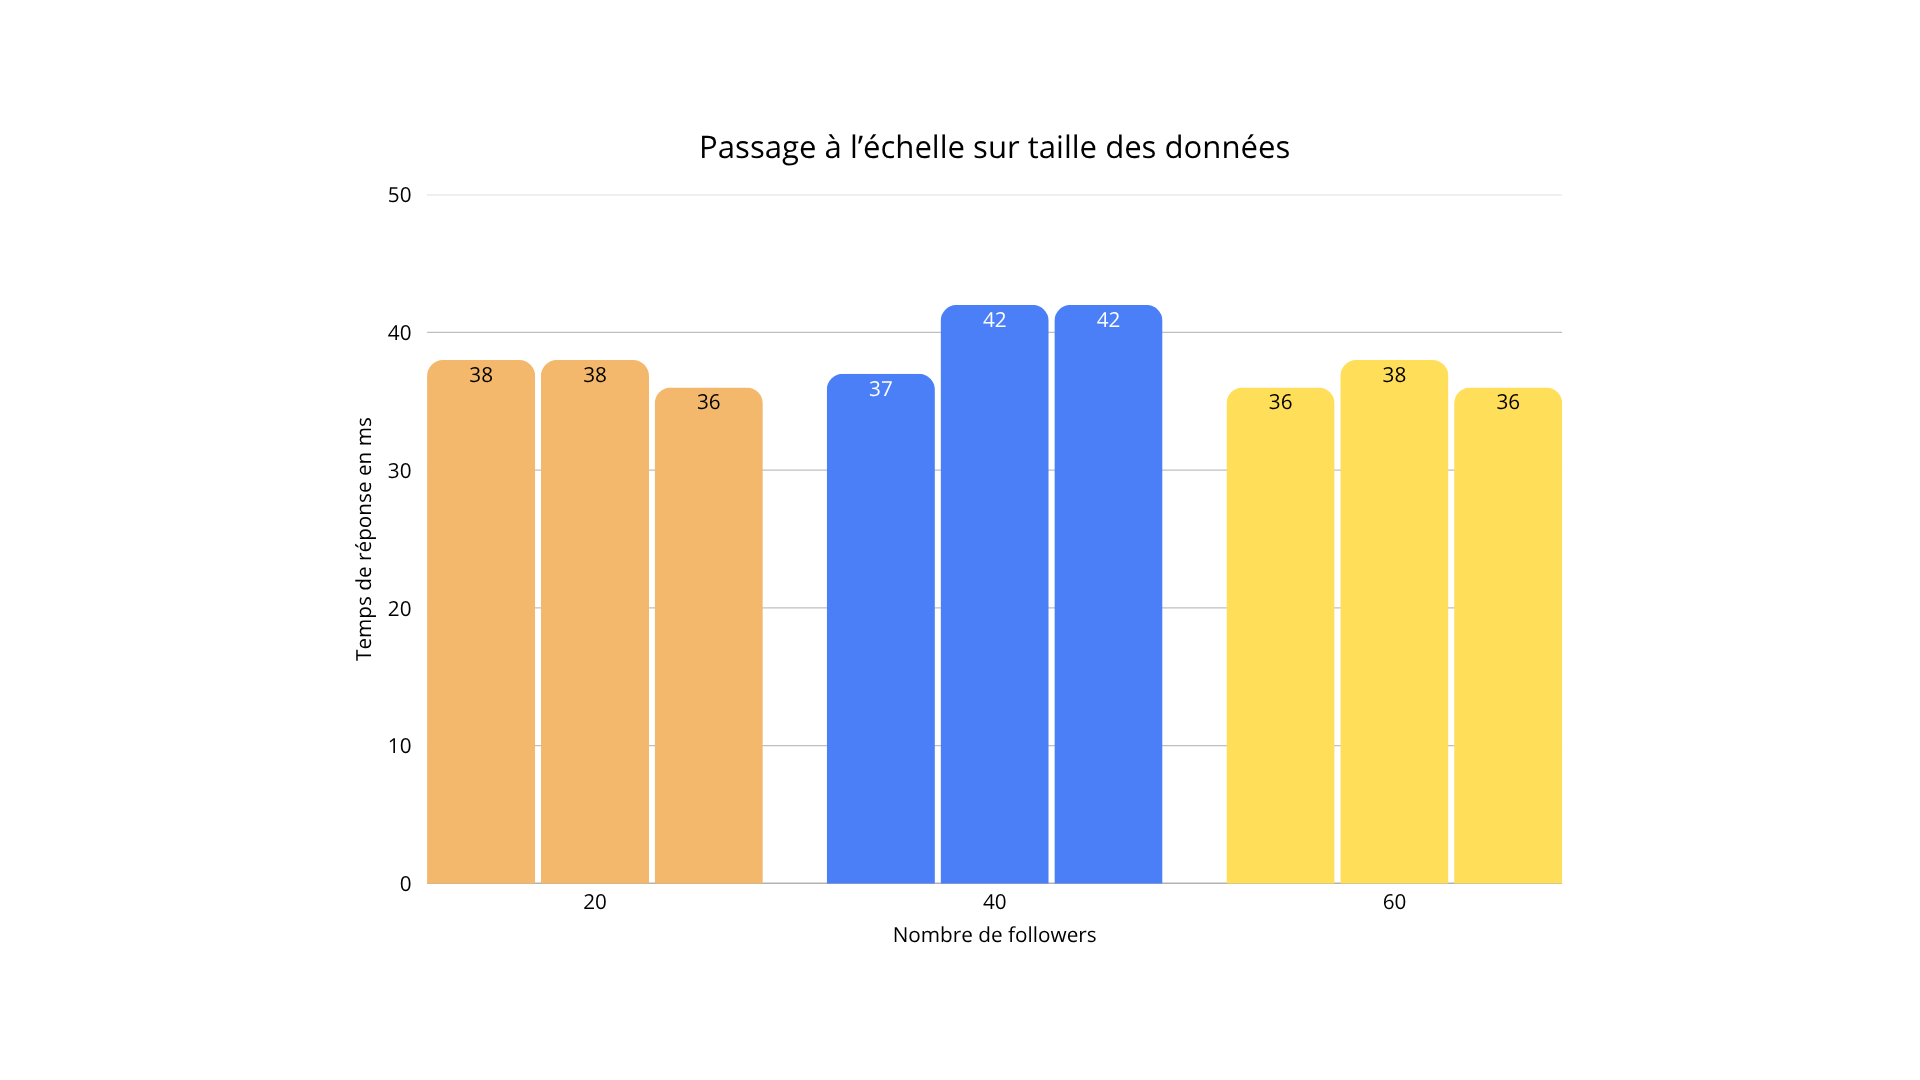
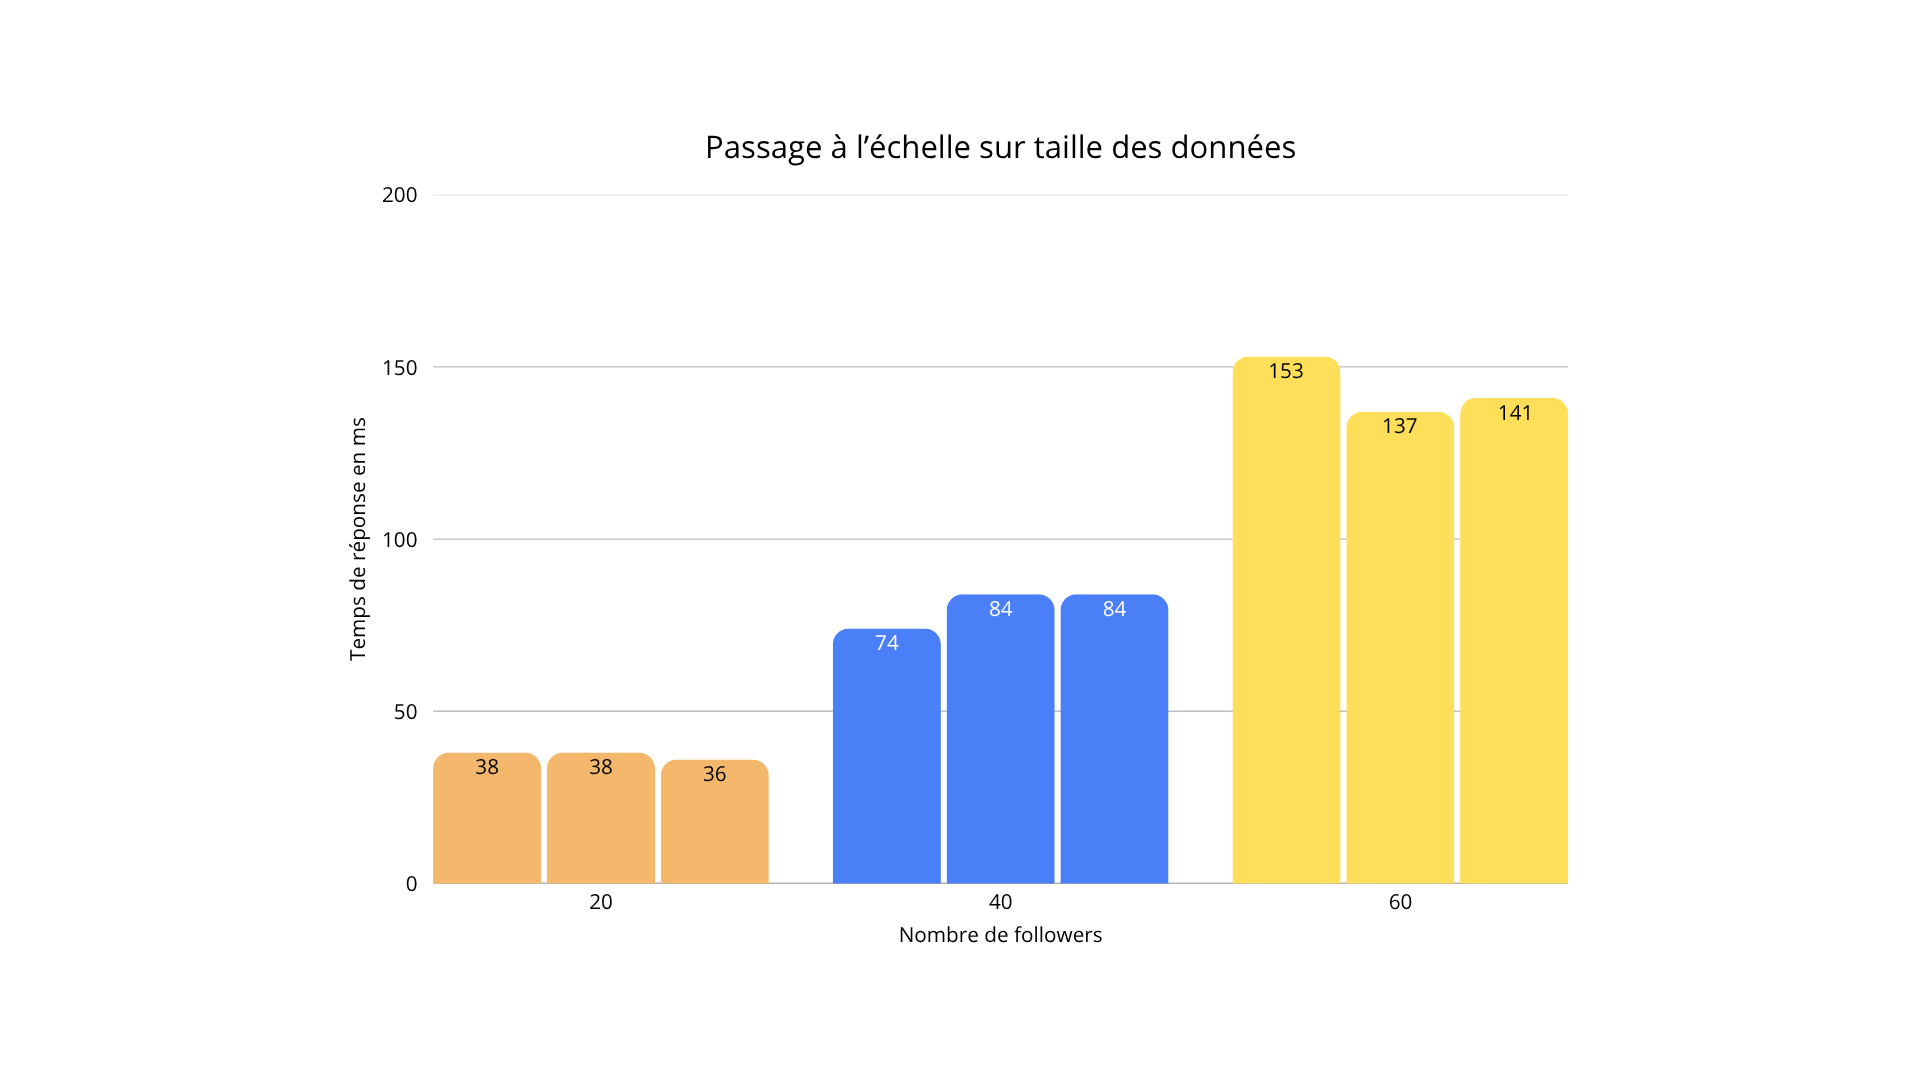
update part 2

diff --git a/README.md b/README.md
@@ -21,11 +21,10 @@ Nous sommes cependant limité à 20 instances sur google cloud, on peut donc pas
 
 ![Graphique de charge](out/fan_out graphique.png)
 
-Concernant la seconde expérience sur la taille des données détaillée dans le fichier fanout.csv, les résultats montrent une résistance de l'application à la complexité des requêtes. 
-Malgré le triplement du nombre d'abonnés, passant de vingt à soixante follows, le temps moyen de réponse ne subit aucune dégradation significative et se maintient aux alentours de quarante millisecondes. 
-Ce comportement est logique puisque Datastore utilise des index composites pour retrouver les entités sans avoir à parcourir toute la base de données. 
+Concernant la seconde expérience sur la taille des données détaillée dans le fichier fanout.csv, les résultats montrent une moins bonne de l'application à la complexité des requêtes. 
+Malgré le triplement du nombre d'abonnés, passant de vingt à soixante follows, le temps moyen de réponse double de manière significative et se maintient aux alentours de 80 millisecondes. 
 L'infrastructure compense le léger surcroît de travail processeur en maintenant quatre instances actives au lieu des trois habituelles pour cette charge. 
-L'application scale donc parfaitement sur le plan logiciel car la structure des données et leur volume n'impactent pas l'expérience de l'utilisateur final.
+On en peut ici pas ainsi dire que l'application scale.
 
 
 **Conclusion**
